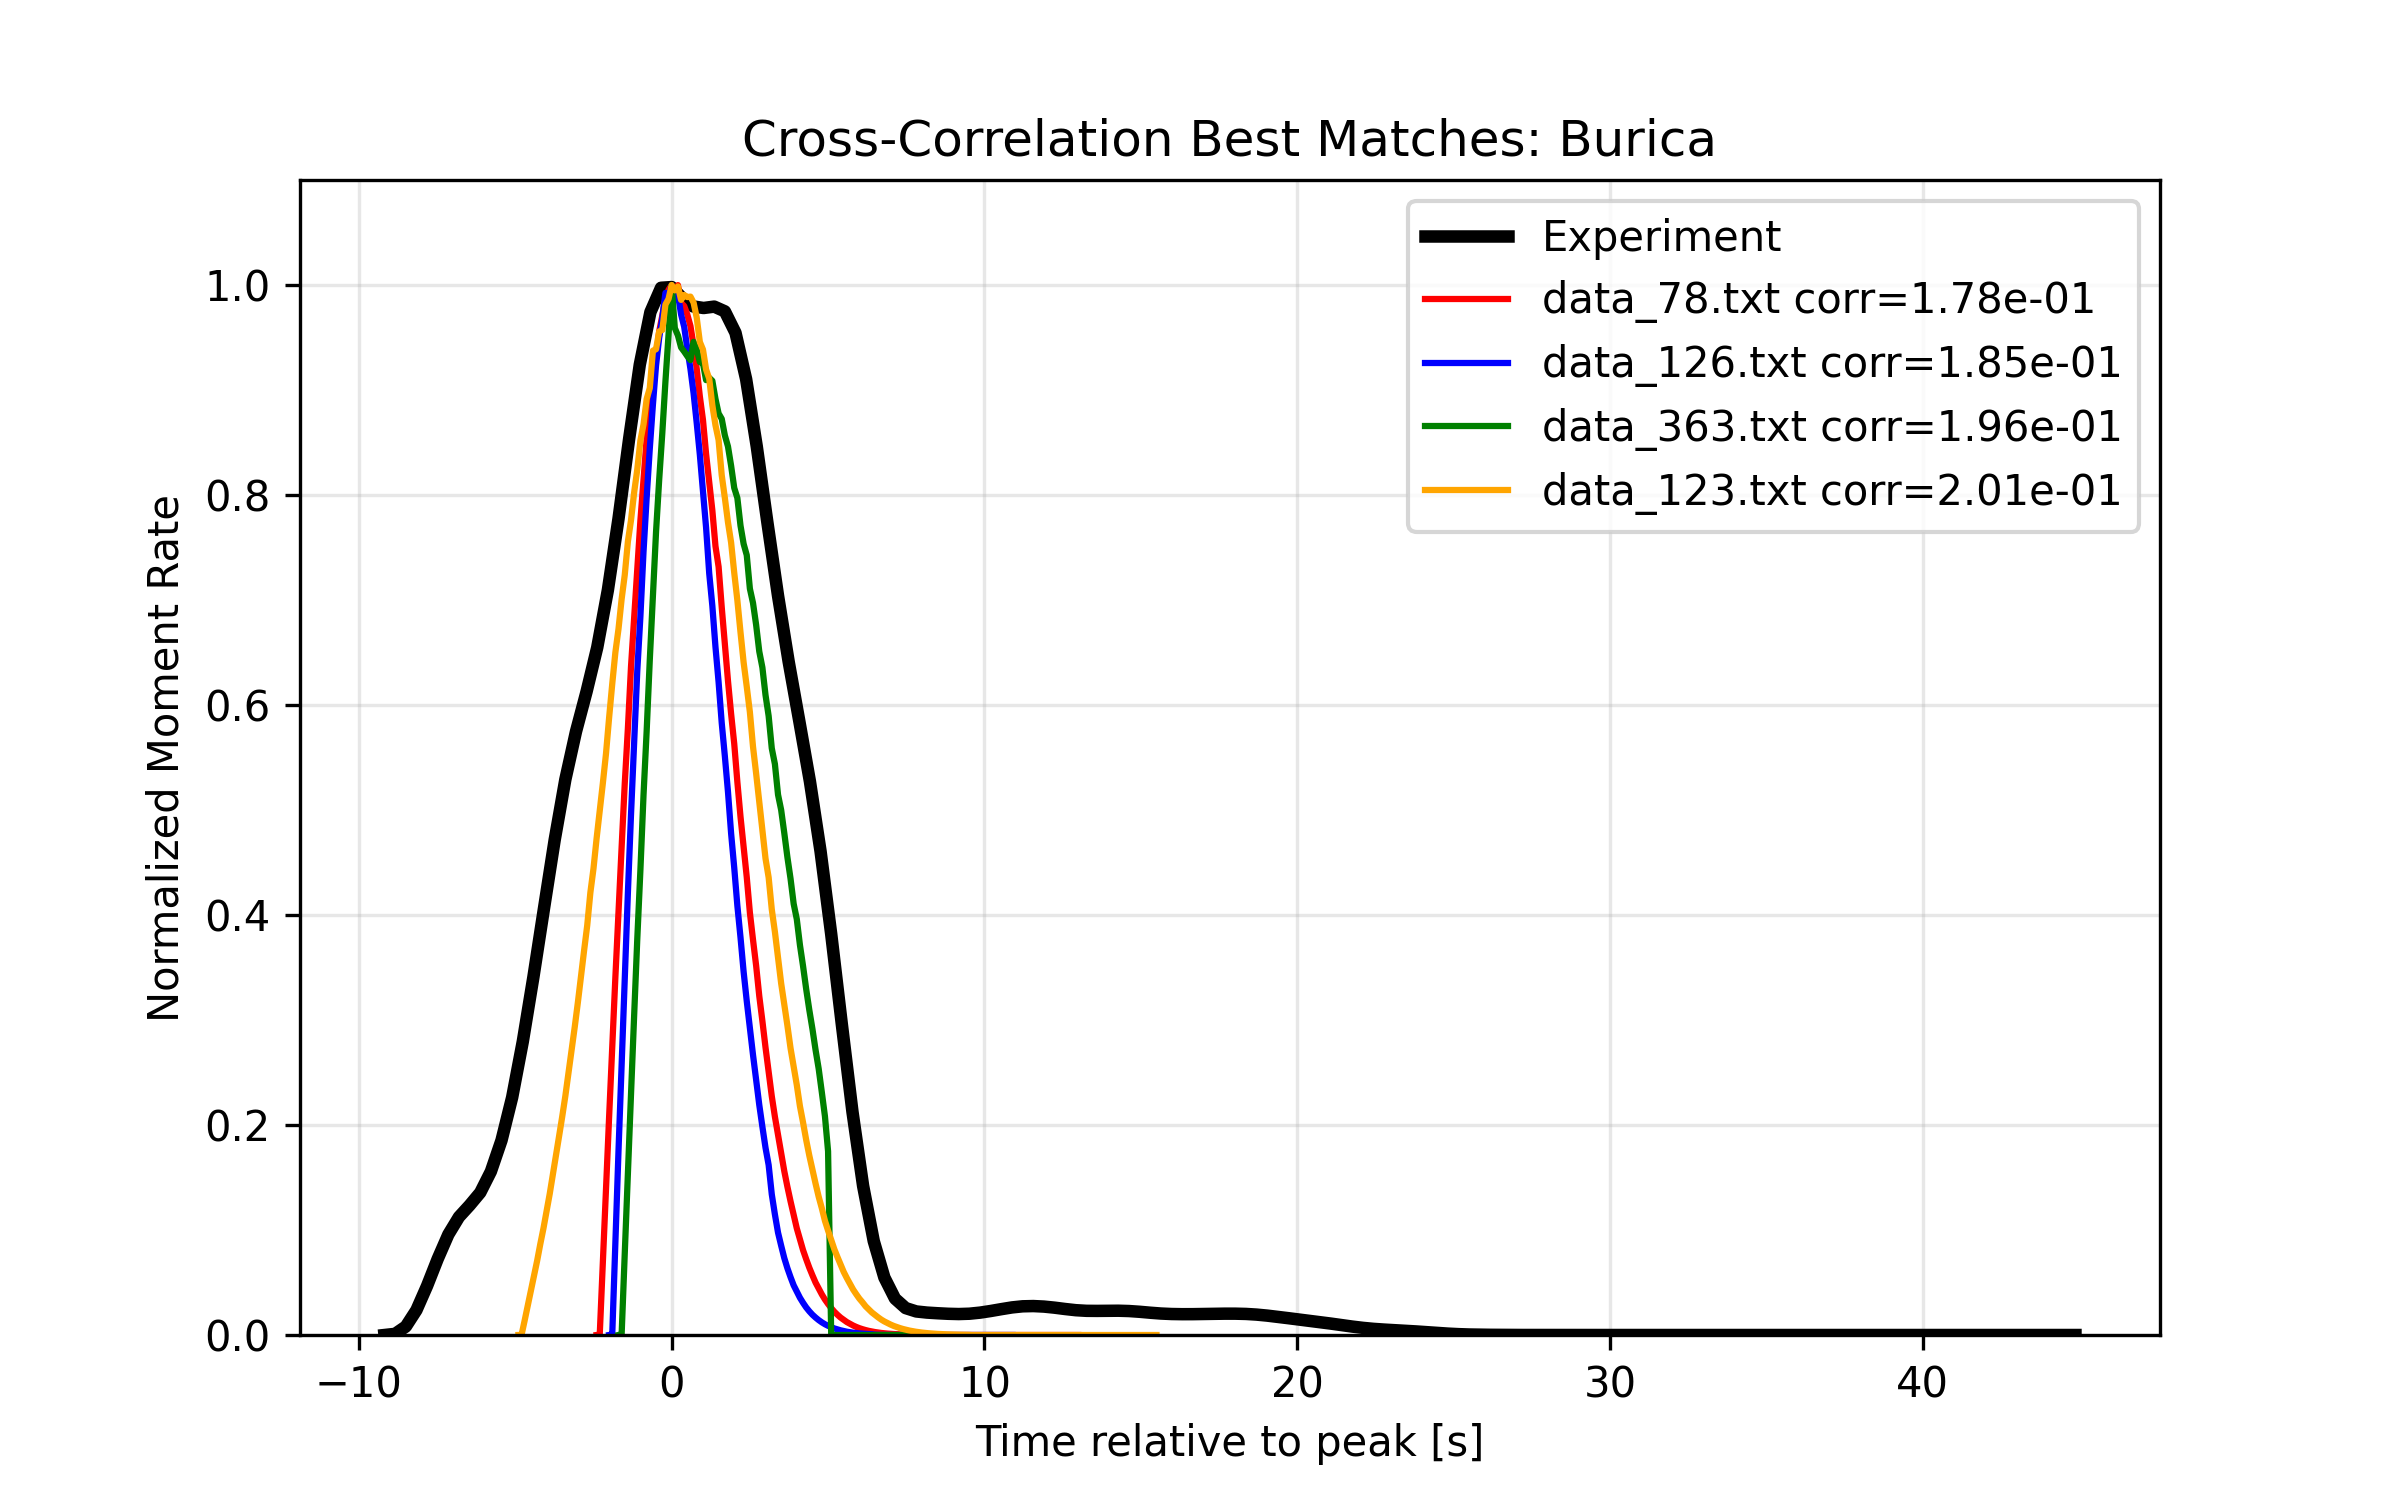
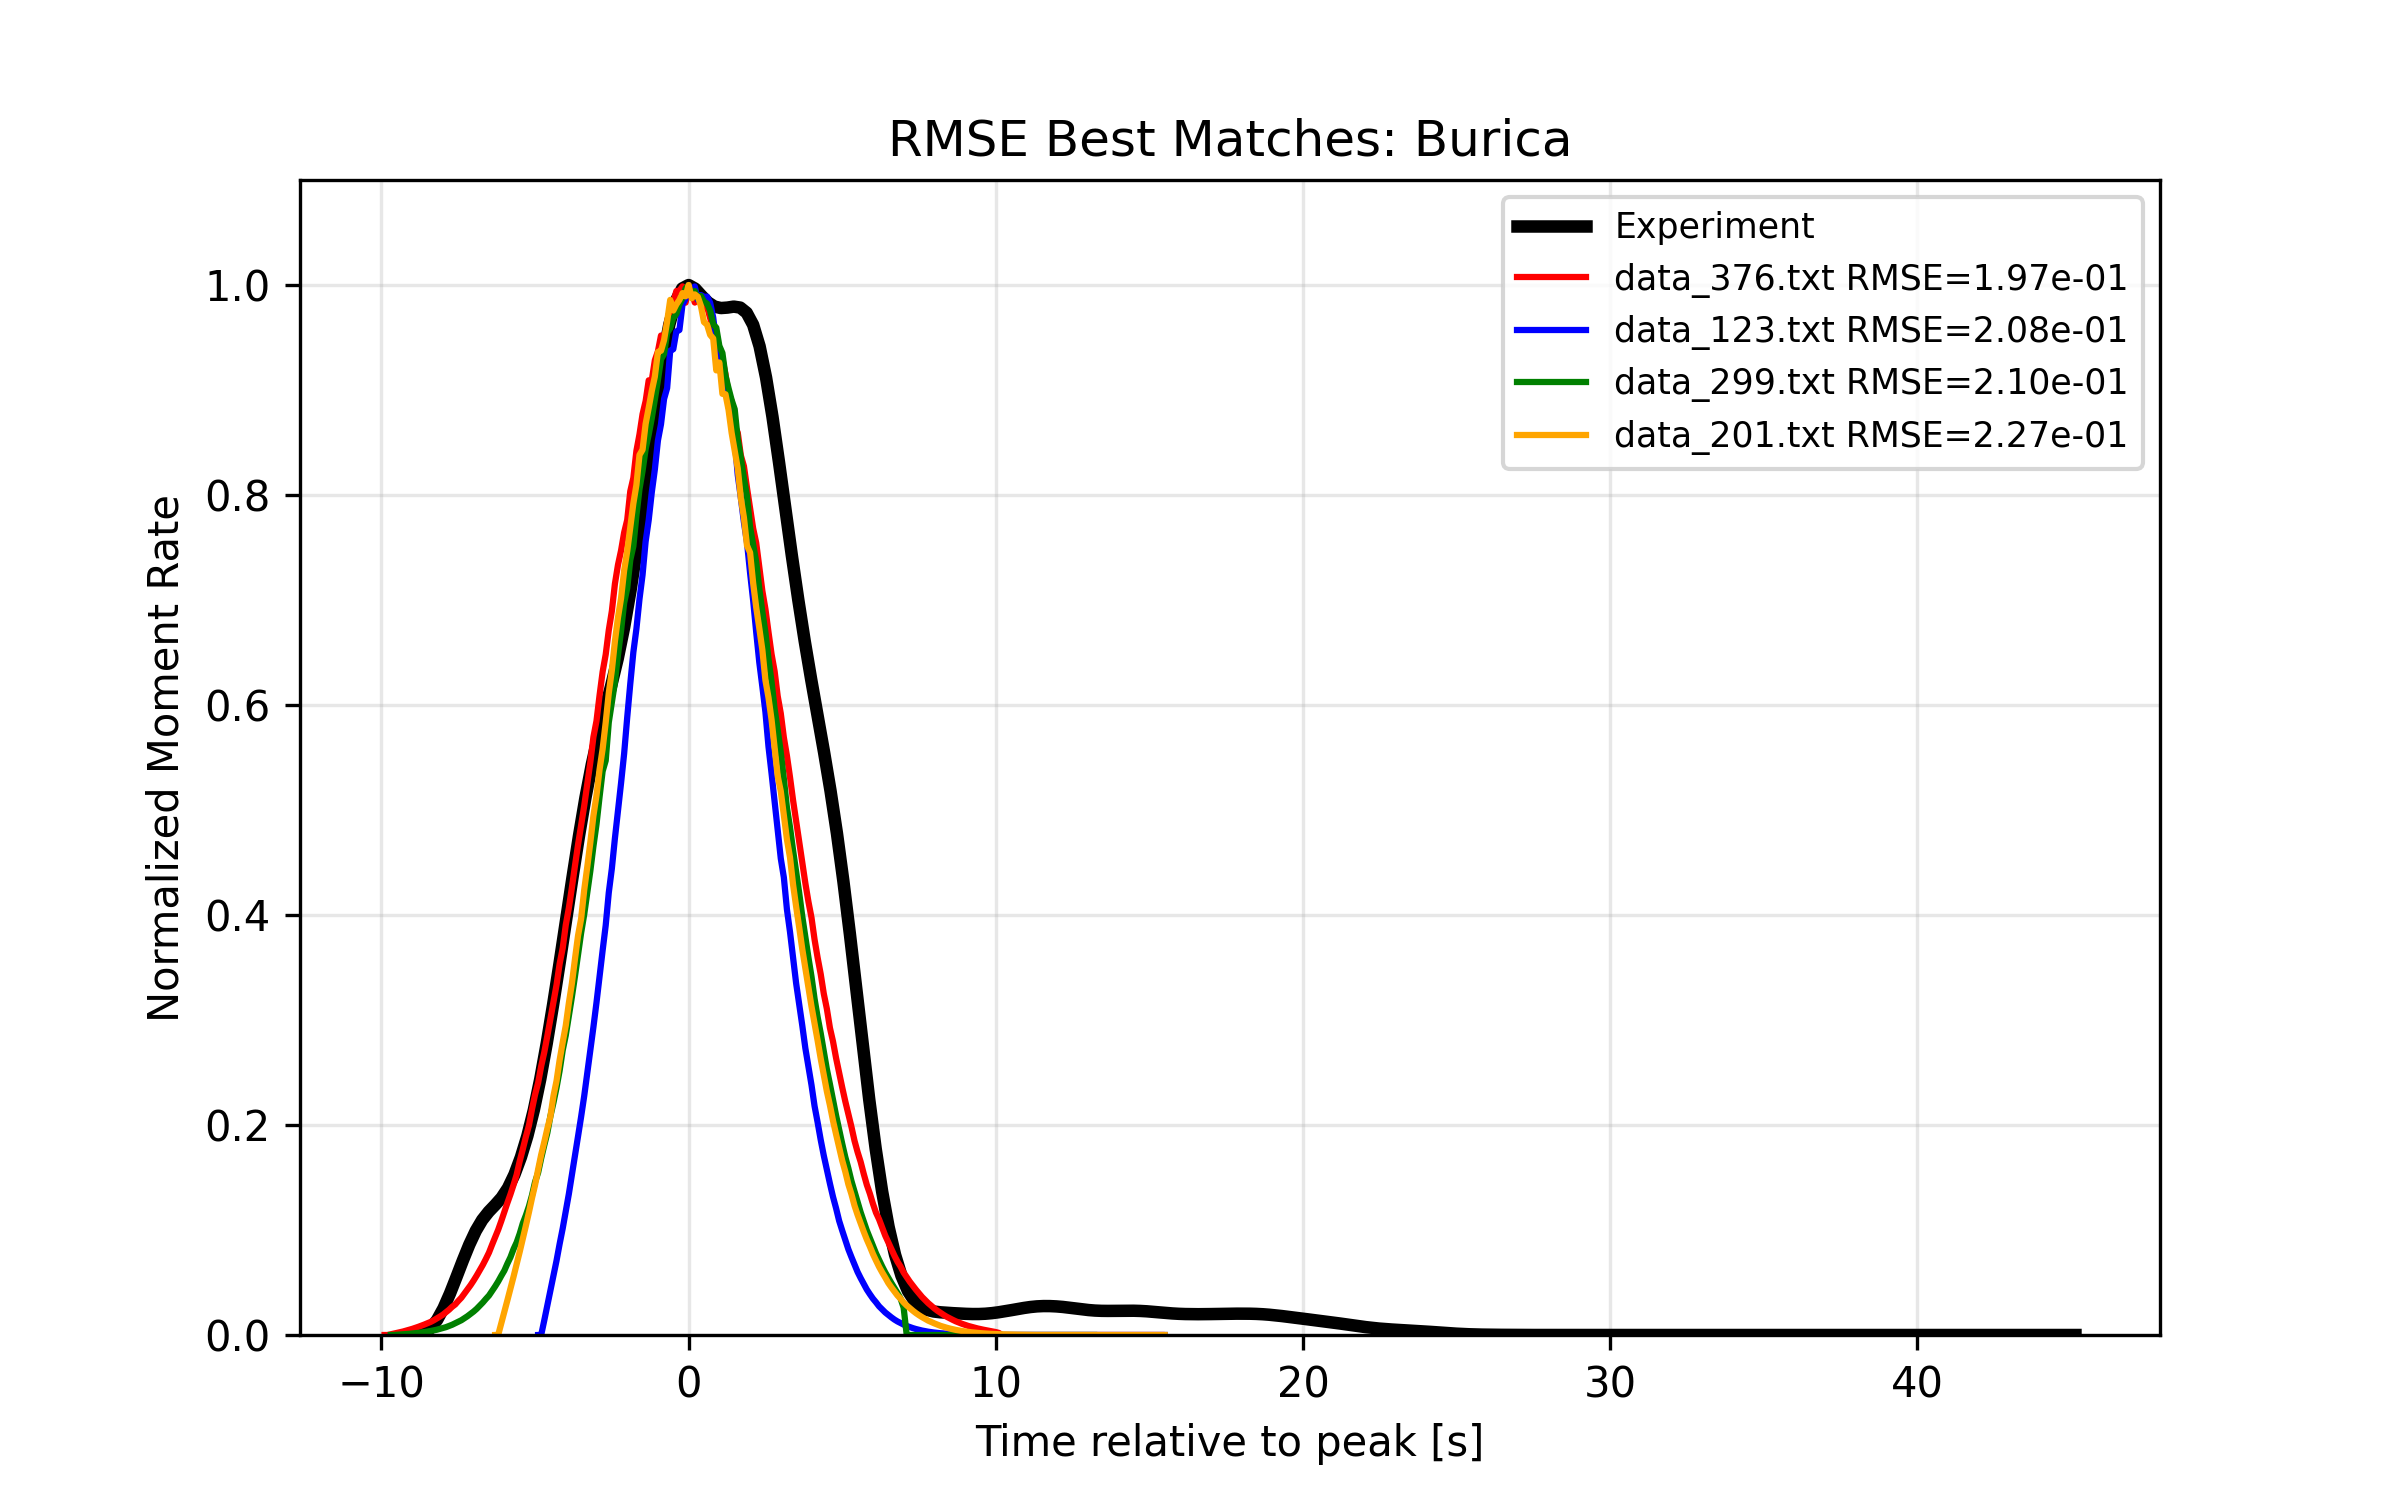
result

diff --git a/thVSexp/RMSE.py b/thVSexp/RMSE.py
@@ -75,33 +75,25 @@ def read_experiment(file):
 
 # read th
 def read_model(file):
-
+    params = {}
+    data_list = []
     with open(file, "r", encoding="utf-8") as f:
         lines = f.readlines()
-
-    data = []
-
     for line in lines:
-
-        line = line.strip() # begin from numbers
-
-        match = re.match(r"([0-9.eE+-]+)\s+([0-9.eE+-]+)", line)
-
-        if match:
-
-            moment = float(match.group(1))
-            time = float(match.group(2))
-
-            data.append([moment, time])
-
-    data = np.array(data)
-
-    moment = normalize(data[:,0])
-    time = data[:,1]
-
-    time, moment = align_peak(time, moment)
-
-    return time, moment
+        line = line.strip()
+        if not line: continue
+        # 抓取参数: key = value
+        param_match = re.match(r"^([a-zA-Z0-9_]+)\s*=\s*([0-9.eE+-]+)", line)
+        if param_match:
+            params[param_match.group(1)] = float(param_match.group(2))
+            continue
+        # 抓取数据
+        data_match = re.match(r"^([0-9.eE+-]+)\s+([0-9.eE+-]+)$", line)
+        if data_match:
+            data_list.append([float(data_match.group(1)), float(data_match.group(2))])
+    data = np.array(data_list)
+    t_aligned, m_aligned = align_peak(data[:, 1], normalize(data[:, 0]))
+    return t_aligned, m_aligned, params
 
 
 
@@ -120,49 +112,64 @@ def rmse(a, b, fraction=0.75):
 def find_best_models(t_exp, m_exp, theory_files):
     results = []
     for file in theory_files:
-        t_th, m_th = read_model(file)
-
-   
+        t_th, m_th, params = read_model(file)
         y_exp_win, y_th_win, t_dec, m_dec = prepare_comparison_data(t_exp, m_exp, t_th, m_th)
-
-
-        error = rmse(y_exp_win, y_th_win) 
-
-  
-        results.append((file, t_th, m_th, error, t_dec, m_dec))
-
-    results.sort(key=lambda x: x[3])
+        
+        # 计算 rmse
+        rmse_val = np.mean(np.abs(y_exp_win - y_th_win))
+        
+        results.append({
+            'file': file, 't_th': t_th, 'm_th': m_th, 'rmse': rmse_val,
+            't_dec': t_dec, 'm_dec': m_dec, 'params': params
+        })
+    results.sort(key=lambda x: x['rmse'])
     
-    return results[:4]
+    # 定义阈值: 最小rmse的1.1倍
+    min_rmse = results[0]['rmse']
+    threshold = min_rmse * 1.1
+    return results[:4], min_rmse, threshold
 
+# --- 5. 绘图并自动计算 平均值 +/- 误差 ---
+def plot_result(exp_name, top_4, min_rmse, threshold):
+    plt.figure(figsize=(12, 7))
+    
+    # 实验数据
+    first = top_4[0]
+    t_exp_shifted = first['t_dec'] - first['t_dec'][np.argmax(first['m_dec'])]
+    plt.plot(t_exp_shifted, first['m_dec'], lw=3, color='black', label='Experiment', zorder=10)
 
+    # 统计参数
+    param_keys = ['a', 'b', 'x0', 'vr', 'A0', 'Xmax', 'sigmaX', 'sigmaY', 'M0', 'Mr_max']
+    collected = {k: [] for k in param_keys}
+    
+    colors = ['red', 'blue', 'green', 'orange']
+    for i, res in enumerate(top_4):
+        t_th_shifted = res['t_th'] - res['t_th'][np.argmax(res['m_th'])]
+        plt.plot(t_th_shifted, res['m_th'], color=colors[i], alpha=0.7, 
+                 label=f"Top {i+1} (rmse={res['rmse']:.2e})")
+        for k in param_keys:
+            if k in res['params']: collected[k].append(res['params'][k])
 
-def plot_result(exp_name, best_models): 
-    plt.figure(figsize=(8,5))
+    # 生成统计文本: 平均值 +/- 绝对误差(标准差)
+    stats_text = [f"Criteria: rmse < {threshold:.2e}", "Stats (Mean ± Std):"]
+    for k in param_keys:
+        if collected[k]:
+            m, s = np.mean(collected[k]), np.std(collected[k])
+            stats_text.append(f"{k:7s}: {m:.2e} ± {s:.2e}")
 
-    _, _, _, _, t_exp_dec, m_exp_dec = best_models[0]
-    t_exp_shifted = t_exp_dec - t_exp_dec[np.argmax(m_exp_dec)]
+    plt.gca().text(1.02, 0.5, "\n".join(stats_text), transform=plt.gca().transAxes,
+                   fontsize=9, family='monospace', verticalalignment='center',
+                   bbox=dict(boxstyle='round', facecolor='white', alpha=0.8))
 
-    plt.plot(t_exp_shifted, m_exp_dec, linewidth=3, label="Experiment", color="black")
-
-    colors = ["red","blue","green","orange"]
-    for i, (file, t_th, m_th, e, _, _) in enumerate(best_models):
-        name = os.path.basename(file)
-        t_th_shifted = t_th - t_th[np.argmax(m_th)]
-  
-        plt.plot(t_th_shifted, m_th, color=colors[i], label=f"{name} corr={e:.2e}")
-
-    plt.xlabel("Time relative to peak [s]")
-    plt.ylabel("Normalized Moment Rate")
-    plt.title(f"Cross-Correlation Best Matches: {exp_name}")
-    plt.legend()
+    plt.title(f"rmse Best Fit & Parameters: {exp_name}")
+    plt.legend(loc='upper right', fontsize='small')
     plt.grid(True, alpha=0.3)
-    plt.ylim(0, 1.1)
-
-    save_path = os.path.join(RESULT_FOLDER, f"{exp_name}_comparison.png")
+    plt.tight_layout(rect=[0, 0, 0.8, 1]) # 给右侧留空
+    
+    save_path = os.path.join(RESULT_FOLDER, f"{exp_name}_rmse_Stats.png")
     plt.savefig(save_path, dpi=300)
-    print("Saved:", save_path)
     plt.close()
+
     
 
 def main():
